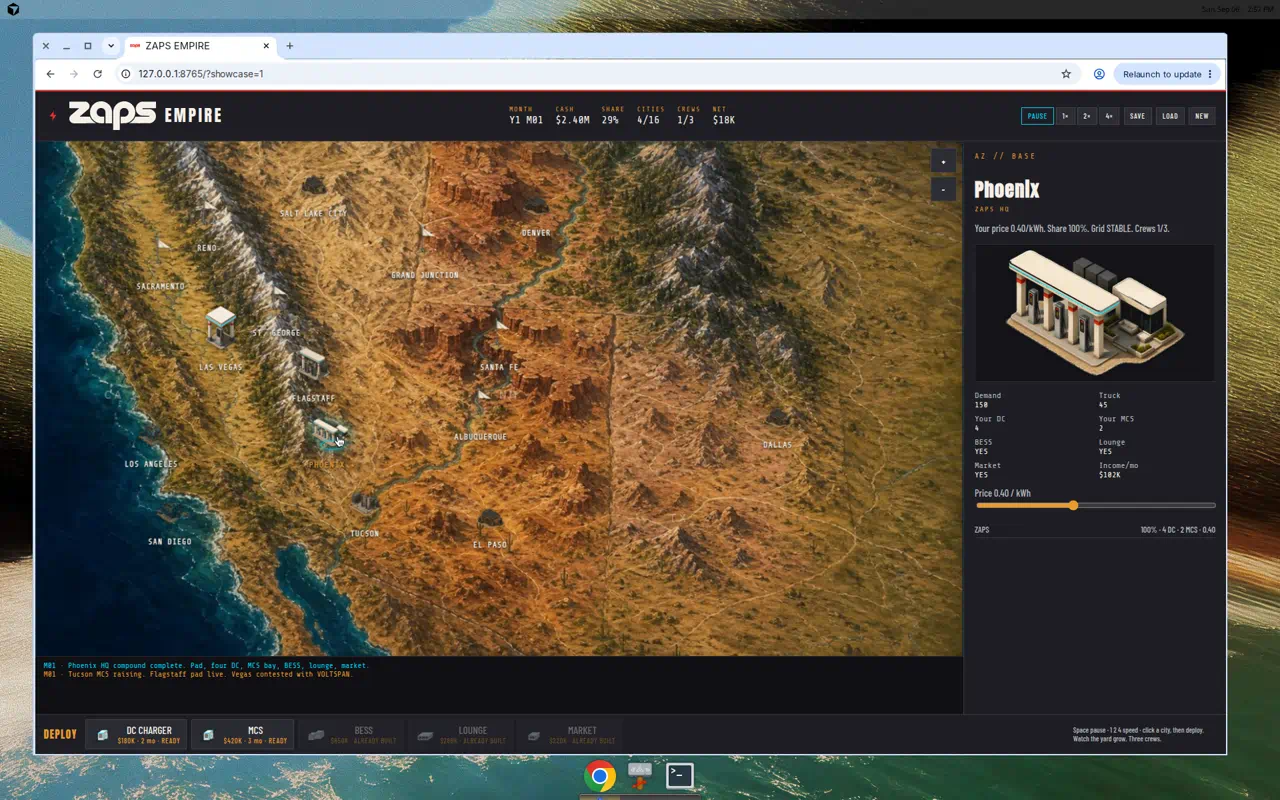
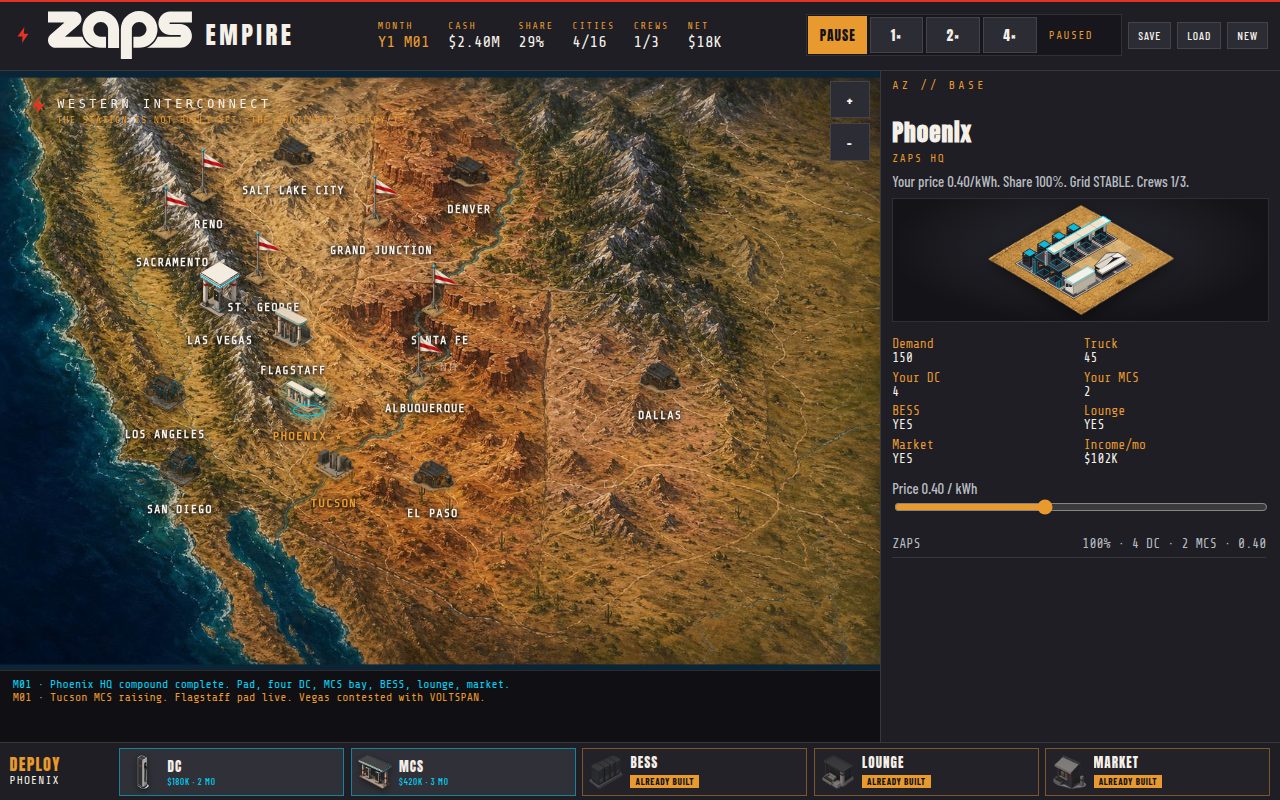
Add rts-yard-13 stills and tighten ghosts, tray, market roof
Capture board / empty / raising / full / inspector at 1280x800.
Keep Flagstaff DC deploy on-site and unclip the deploy city name.

diff --git a/game.js b/game.js
@@ -1507,7 +1507,7 @@
 
   function growH(base, ghost, pct) {
     if (!ghost) return base;
-    return base * (0.42 + 0.58 * Math.max(0.12, Math.min(1, pct || 0.12)));
+    return base * (0.68 + 0.32 * Math.max(0.18, Math.min(1, pct || 0.18)));
   }
 
   function slotJob(occ, type, ghostIndex) {
@@ -1630,7 +1630,7 @@
     if (!title) return "";
     const q = gridQuad(c, r, 1, 1);
     const cx = (q[0][0] + q[1][0] + q[2][0] + q[3][0]) / 4;
-    const cy = Math.min(q[0][1], q[1][1], q[2][1], q[3][1]) - 2.2;
+    const cy = Math.min(q[0][1], q[1][1], q[2][1], q[3][1]) - 4.4;
     const count = job?.preview ? "SET" : `${job?.left ?? ""} MO`;
     return (
       `<g class="site-ghost-badge${job?.preview ? " preview" : ""}">` +
@@ -1693,13 +1693,13 @@
 
   function pitchedRoof(foot, rise, tone) {
     const [sw, se, ne, nw] = foot;
-    const midFront = [(sw[0] + se[0]) / 2, (sw[1] + se[1]) / 2 - rise];
-    const midBack = [(nw[0] + ne[0]) / 2, (nw[1] + ne[1]) / 2 - rise];
-    let g = poly([sw, se, midFront], tone.front, tone.edge, 0.26);
-    g += poly([se, ne, midBack, midFront], tone.side, tone.edge, 0.26);
-    g += poly([nw, ne, midBack], tone.top, tone.edge, 0.3);
-    g += poly([sw, nw, midBack, midFront], tone.top, tone.edge, 0.34);
-    return { g, midFront, midBack };
+    const midL = [(sw[0] + nw[0]) / 2, (sw[1] + nw[1]) / 2 - rise];
+    const midR = [(se[0] + ne[0]) / 2, (se[1] + ne[1]) / 2 - rise];
+    let g = poly([sw, se, midR, midL], tone.front, tone.edge, 0.28);
+    g += poly([se, ne, midR], tone.side, tone.edge, 0.26);
+    g += poly([nw, ne, midR, midL], tone.top, tone.edge, 0.34);
+    g += poly([sw, nw, midL], tone.front, tone.edge, 0.26);
+    return { g, midL, midR };
   }
 
   function drawBess(occ) {
@@ -1763,8 +1763,8 @@
   function drawDcUnit(slot, ghost, job, pop) {
     const tone = ghost ? ghostTone("dc") : SURF.charcoal;
     const cap = ghost ? ghostTone("dc") : SURF.alum;
-    const h = growH(11.6, ghost, job?.pct);
-    const foot = insetQuad(gridQuad(slot.c + 0.36, slot.r + 0.2, 0.28, 0.26), 0);
+    const h = growH(12.4, ghost, job?.pct);
+    const foot = insetQuad(gridQuad(slot.c + 0.3, slot.r + 0.16, 0.4, 0.34), 0);
     const body = isoPrism(foot, h, tone);
     const hat = isoPrism(liftPts(insetQuad(foot, 0.12), h), ghost ? 0.7 : 0.55, cap);
     let unit = body.g + hat.g;
@@ -1821,8 +1821,8 @@
     const job = ghost ? slotJob(occ, "lounge", 0) : null;
     const tone = ghost ? ghostTone("lounge") : SURF.cream;
     const h = growH(7.4, ghost, job?.pct);
-    const foot = insetQuad(gridQuad(0.22, 3.18, 1.56, 0.56), 0.02);
-    const patio = isoPrism(insetQuad(gridQuad(0.42, 3.62, 0.72, 0.22), 0), 0.7, ghost ? ghostTone("lounge") : SURF.concrete);
+    const foot = insetQuad(gridQuad(0.18, 3.16, 1.64, 0.58), 0.02);
+    const patio = isoPrism(insetQuad(gridQuad(0.36, 3.6, 0.8, 0.24), 0), 0.75, ghost ? ghostTone("lounge") : SURF.concrete);
     const body = isoPrism(foot, h, tone);
     let g = patio.g + body.g;
     g += faceRect(body, 0.08, 0.16, 0.34, 0.42, ghost ? "#243038" : "#1a2830");
@@ -1847,9 +1847,9 @@
     g += faceRect(body, 0.1, 0.16, 0.32, 0.36, ghost ? "#2a2418" : "#141c20");
     g += faceRect(body, 0.14, 0.28, 0.24, 0.12, PAL.amber);
     g += faceRect(body, 0.72, 0.2, 0.12, 0.18, PAL.red);
-    const roofFoot = liftPts(insetQuad(foot, -0.02), h);
-    g += pitchedRoof(roofFoot, 3.6, tone).g;
-    const awning = isoPrism(liftPts(insetQuad(gridQuad(2.16, 3.5, 1.68, 0.3), 0), h * 0.7), 0.7, awn);
+    const roofFoot = liftPts(insetQuad(foot, -0.04), h);
+    g += pitchedRoof(roofFoot, 5.2, { ...tone, top: awn.top, front: awn.front, edge: tone.edge }).g;
+    const awning = isoPrism(liftPts(insetQuad(gridQuad(2.14, 3.48, 1.72, 0.34), 0), h * 0.62), 0.85, awn);
     g += awning.g;
     return wrapBldg("kit-market", ghost, g, slotPop(occ, "market", 0), job?.preview);
   }
@@ -2158,7 +2158,9 @@
     const target = CITY_BY_ID[selected];
     const label = $("tray-label");
     if (label) {
-      label.textContent = target ? `DEPLOY // ${target.name.toUpperCase()}` : "DEPLOY";
+      label.innerHTML = target
+        ? `DEPLOY<span>${target.name.toUpperCase()}</span>`
+        : "DEPLOY";
     }
     for (const spec of Object.values(BUILD)) {
       const cost = selected ? deployCost(spec.id, selected) : spec.cost;
@@ -2260,6 +2262,10 @@
 
   function applyShot(name) {
     const z = (id) => state.cities[id].sites.zaps;
+    if (name === "board" || name === "map") {
+      selected = "phoenix";
+      return null;
+    }
     if (name === "pad" || name === "empty") {
       selected = "flagstaff";
       return "flagstaff";

diff --git a/scripts/browser-smoke.html b/scripts/browser-smoke.html
@@ -1,0 +1,60 @@
+<!DOCTYPE html>
+<html lang="en">
+  <head>
+    <meta charset="utf-8" />
+    <title>Empire browser smoke</title>
+  </head>
+  <body>
+    <pre id="out">running…</pre>
+    <iframe id="g" src="/?shot=empty" style="position:absolute;left:-9999px;width:1280px;height:800px;border:0"></iframe>
+    <script>
+      const out = document.getElementById("out");
+      const frame = document.getElementById("g");
+      const report = (obj) => {
+        out.textContent = JSON.stringify(obj, null, 2);
+        document.title = obj.ok ? "SMOKE PASS" : "SMOKE FAIL";
+      };
+      const wait = (ms) => new Promise((r) => setTimeout(r, ms));
+      frame.addEventListener("load", async () => {
+        try {
+          await wait(800);
+          const w = frame.contentWindow;
+          const d = frame.contentDocument;
+          const smoke = w.__EMPIRE_SMOKE__;
+          if (!smoke) throw new Error("no __EMPIRE_SMOKE__");
+          const before = {
+            site: smoke.getSite(),
+            selected: smoke.getSelected(),
+            paused: smoke.paused(),
+            speed: smoke.getState().speed,
+          };
+          const dc = d.querySelector('[data-kit="dc"]');
+          if (!dc) throw new Error("no DC tray button");
+          dc.click();
+          await wait(250);
+          const state = smoke.getState();
+          const after = {
+            site: smoke.getSite(),
+            selected: smoke.getSelected(),
+            paused: smoke.paused(),
+            queue: state.queue,
+            crews: state.queue.filter((q) => q.faction === "zaps").length,
+          };
+          const flag = smoke.nearestCity(400, 370);
+          const tuc = smoke.nearestCity(455, 545);
+          const ok =
+            before.site === "flagstaff" &&
+            after.site === "flagstaff" &&
+            after.selected === "flagstaff" &&
+            after.paused === true &&
+            after.queue.some((q) => q.city === "flagstaff" && q.type === "dc") &&
+            flag.id === "flagstaff" &&
+            tuc.id === "tucson";
+          report({ ok, before, after, flag: flag.id, tucson: tuc.id, hits: { flagstaff: flag.id, tucson: tuc.id } });
+        } catch (err) {
+          report({ ok: false, error: String(err && err.stack ? err.stack : err) });
+        }
+      });
+    </script>
+  </body>
+</html>

diff --git a/styles.css b/styles.css
@@ -1301,9 +1301,16 @@ button {
   color: var(--amber);
   min-width: 0;
   line-height: 1.05;
-  overflow: hidden;
-  text-overflow: ellipsis;
-  white-space: nowrap;
+  display: flex;
+  flex-direction: column;
+  gap: 0.12rem;
+}
+
+.tray-label span {
+  font-family: "Share Tech Mono", monospace;
+  font-size: 0.7rem;
+  letter-spacing: 0.1em;
+  color: var(--cream);
 }
 
 .tray-grid {

diff --git a/docs/shots/REVIEW.md b/docs/shots/REVIEW.md
@@ -1,8 +1,8 @@
 # Empire graphics review — rts-yard-13
 
-Stills: `board.png` · `yard-empty.png` · `yard-dc2-raising.png` · `yard-full.png` · `inspector.png`
+Stills: `board.png` · `yard-empty.png` · `yard-dc2-raising.png` · `yard-raising.png` · `yard-full.png` · `inspector.png`
 
-Replay: `?shot=empty` · `?shot=dc2-raising` / `?shot=raising-ghosts` · `?shot=full` · `?shot=start` · `?showcase=1`.
+Replay: `?shot=board` · `?shot=empty` · `?shot=dc2-raising` / `?shot=raising-ghosts` · `?shot=raising` · `?shot=full` · `?shot=start` · `?showcase=1`.
 
 ## AoE polish
 
